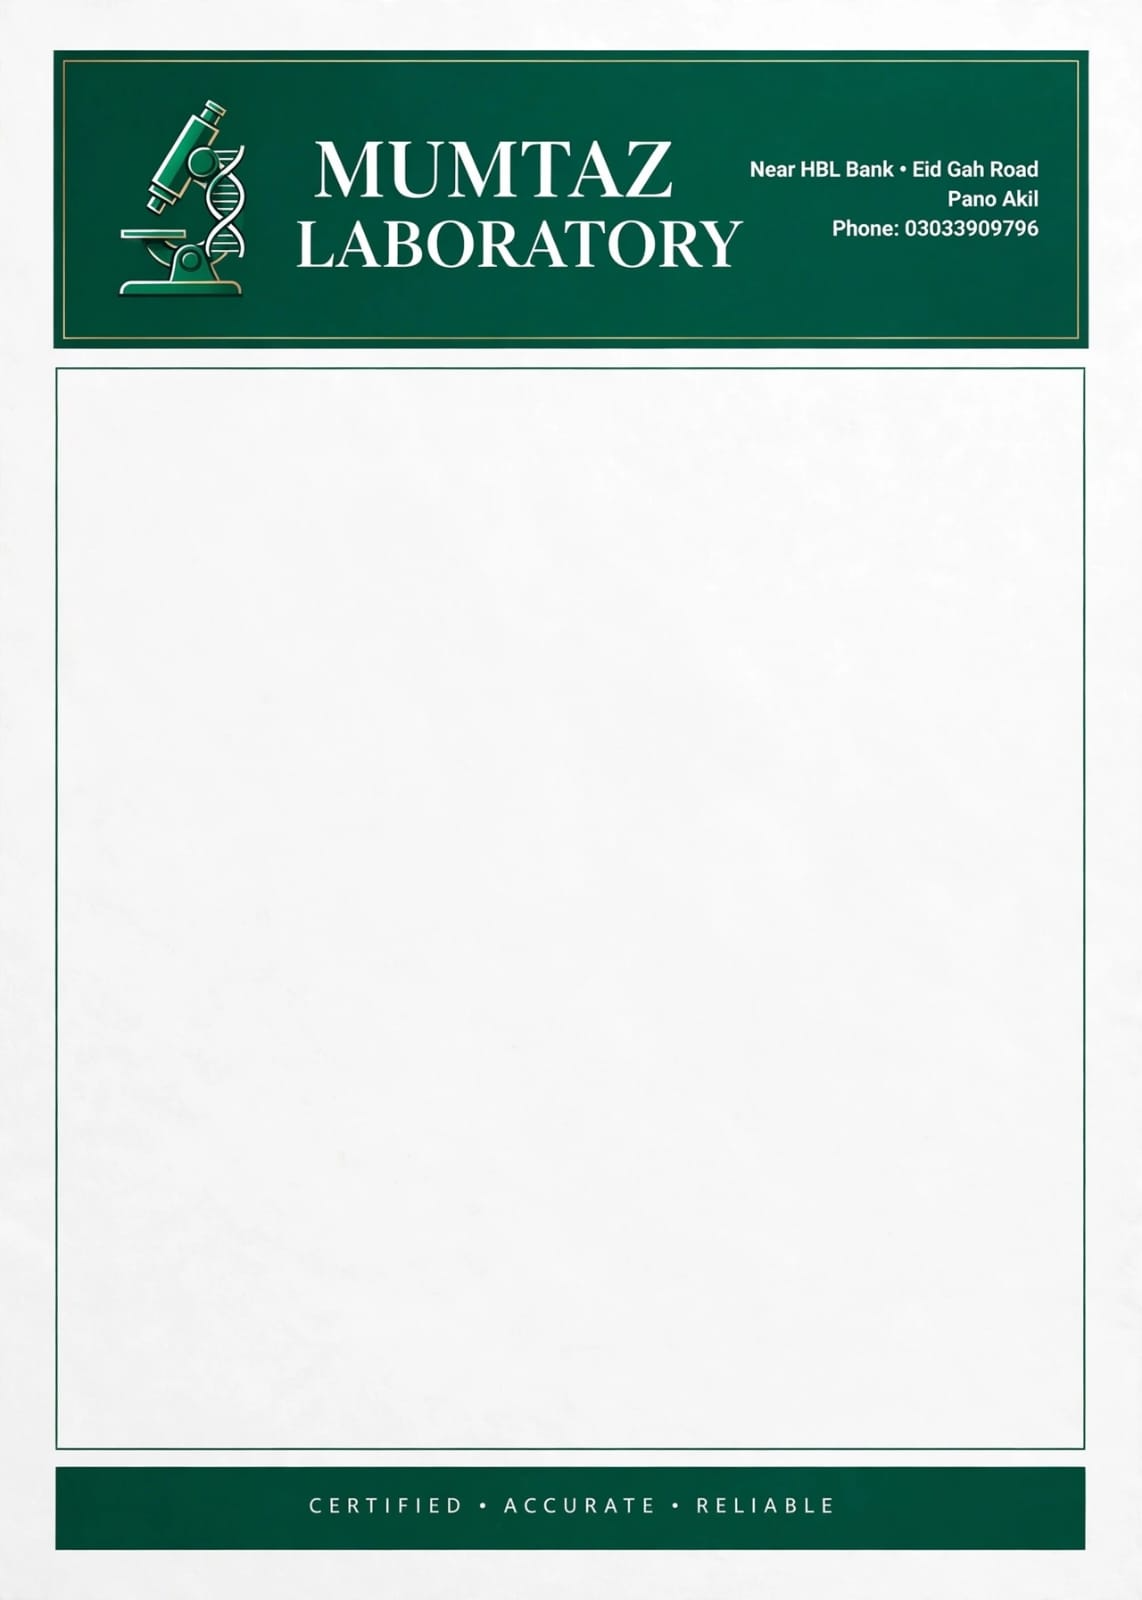
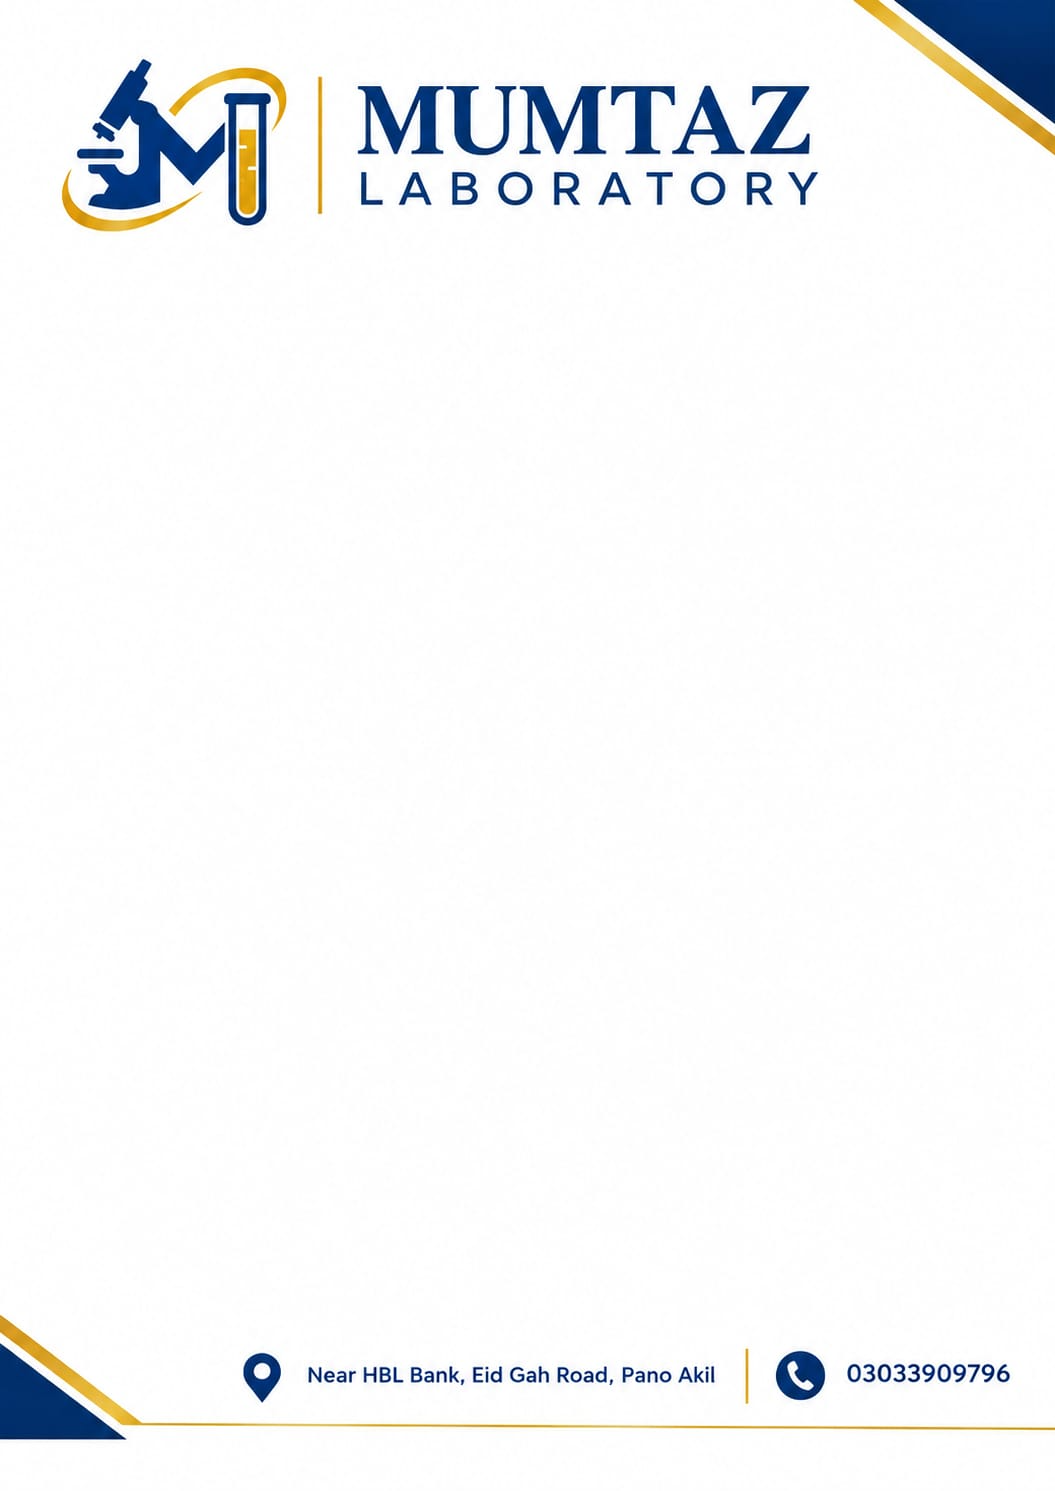
Use new Mumtaz letterhead design for printed reports and bills
Replace the letterhead image and adjust the printed page margins to its
header and footer heights. Version and cache version are both 2.0.4.

Changed region(s): [[0.0, 0.0, 1.0, 0.9873]]

diff --git a/css/lab.css b/css/lab.css
@@ -232,7 +232,7 @@ button.list-row { cursor: pointer; }
   #print-area { display: block !important; position: static; color: #000; background: none; padding: 12mm; font-family: Arial, Helvetica, sans-serif; font-size: 11pt; }
   #print-area * { box-shadow: none !important; text-shadow: none !important; }
   /* Lab reports: the letterhead image (header + footer bar) is printed on every page behind the text. */
-  .pr-page.pr-lh { margin: -12mm; width: 210mm; min-height: 297mm; box-sizing: border-box; padding: 74mm 18mm 30mm; }
+  .pr-page.pr-lh { margin: -12mm; width: 210mm; min-height: 297mm; box-sizing: border-box; padding: 54mm 18mm 40mm; }
   .pr-lh-bg { position: fixed; top: 0; left: 0; width: 210mm; height: 297mm; z-index: -1; -webkit-print-color-adjust: exact; print-color-adjust: exact; }
   .pr-page { position: relative; page-break-after: always; break-after: page; }
   .pr-page:last-child { page-break-after: auto; break-after: auto; }

diff --git a/service-worker.js b/service-worker.js
@@ -2,7 +2,7 @@
    Bump VERSION whenever any cached file changes; clients update automatically. */
 // Cache names are namespaced: other apps on designer-haxxan.github.io share Cache Storage with this one.
 const APP_ID = 'disterp';
-const VERSION = `${APP_ID}-lab-v2.0.3`;
+const VERSION = `${APP_ID}-lab-v2.0.4`;
 const isOwnCache = (key) => key.startsWith(`${APP_ID}-`) || /^saleapp-v/.test(key); // saleapp-v* = this app's older builds
 const SHELL = [
   './',

diff --git a/js/config.js b/js/config.js
@@ -5,7 +5,7 @@ export const CONFIG = {
   // one origin (one IndexedDB / LocalStorage / Cache Storage), so every app must use its own unique APP_ID.
   APP_ID: 'disterp',
   // Keep equal to the cache version in service-worker.js (VERSION) when you release.
-  APP_VERSION: '2.0.3',
+  APP_VERSION: '2.0.4',
   SCHEMA_VERSION: 1,
   BACKUP_VERSION: 1,
   // Login API: POST {AUTH_API_BASE}/login. The server does not send CORS headers, so the app must be
